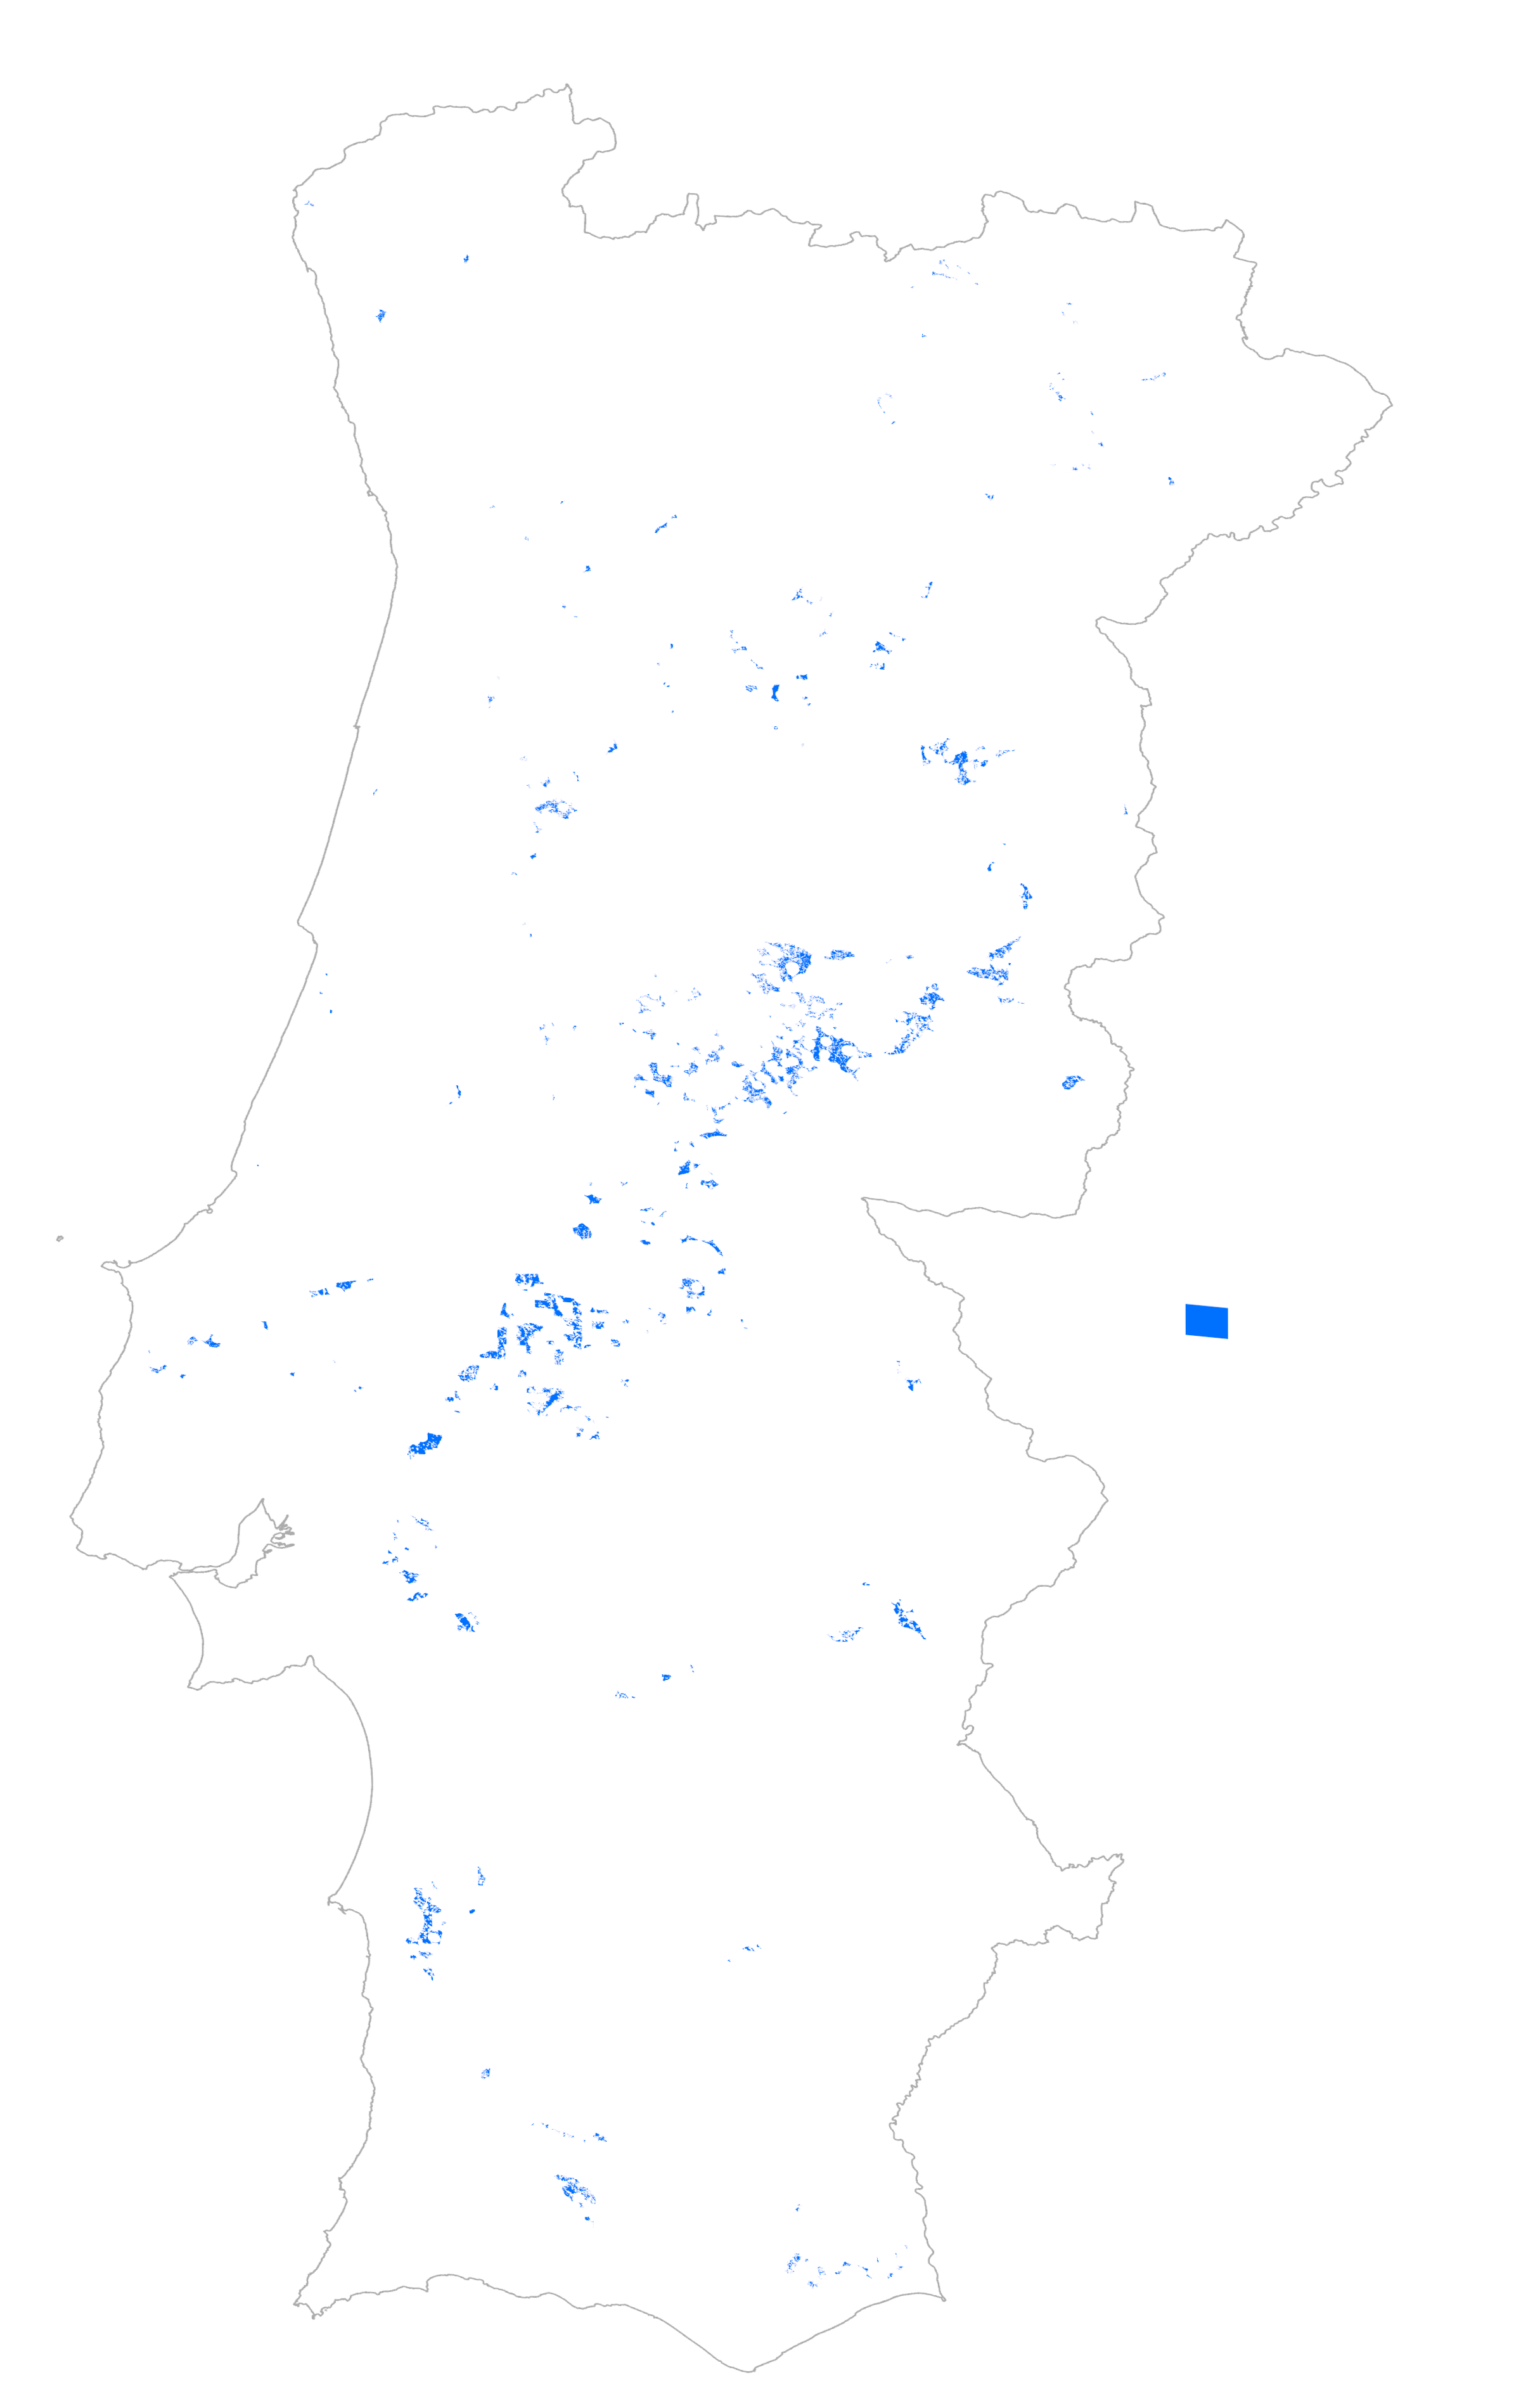
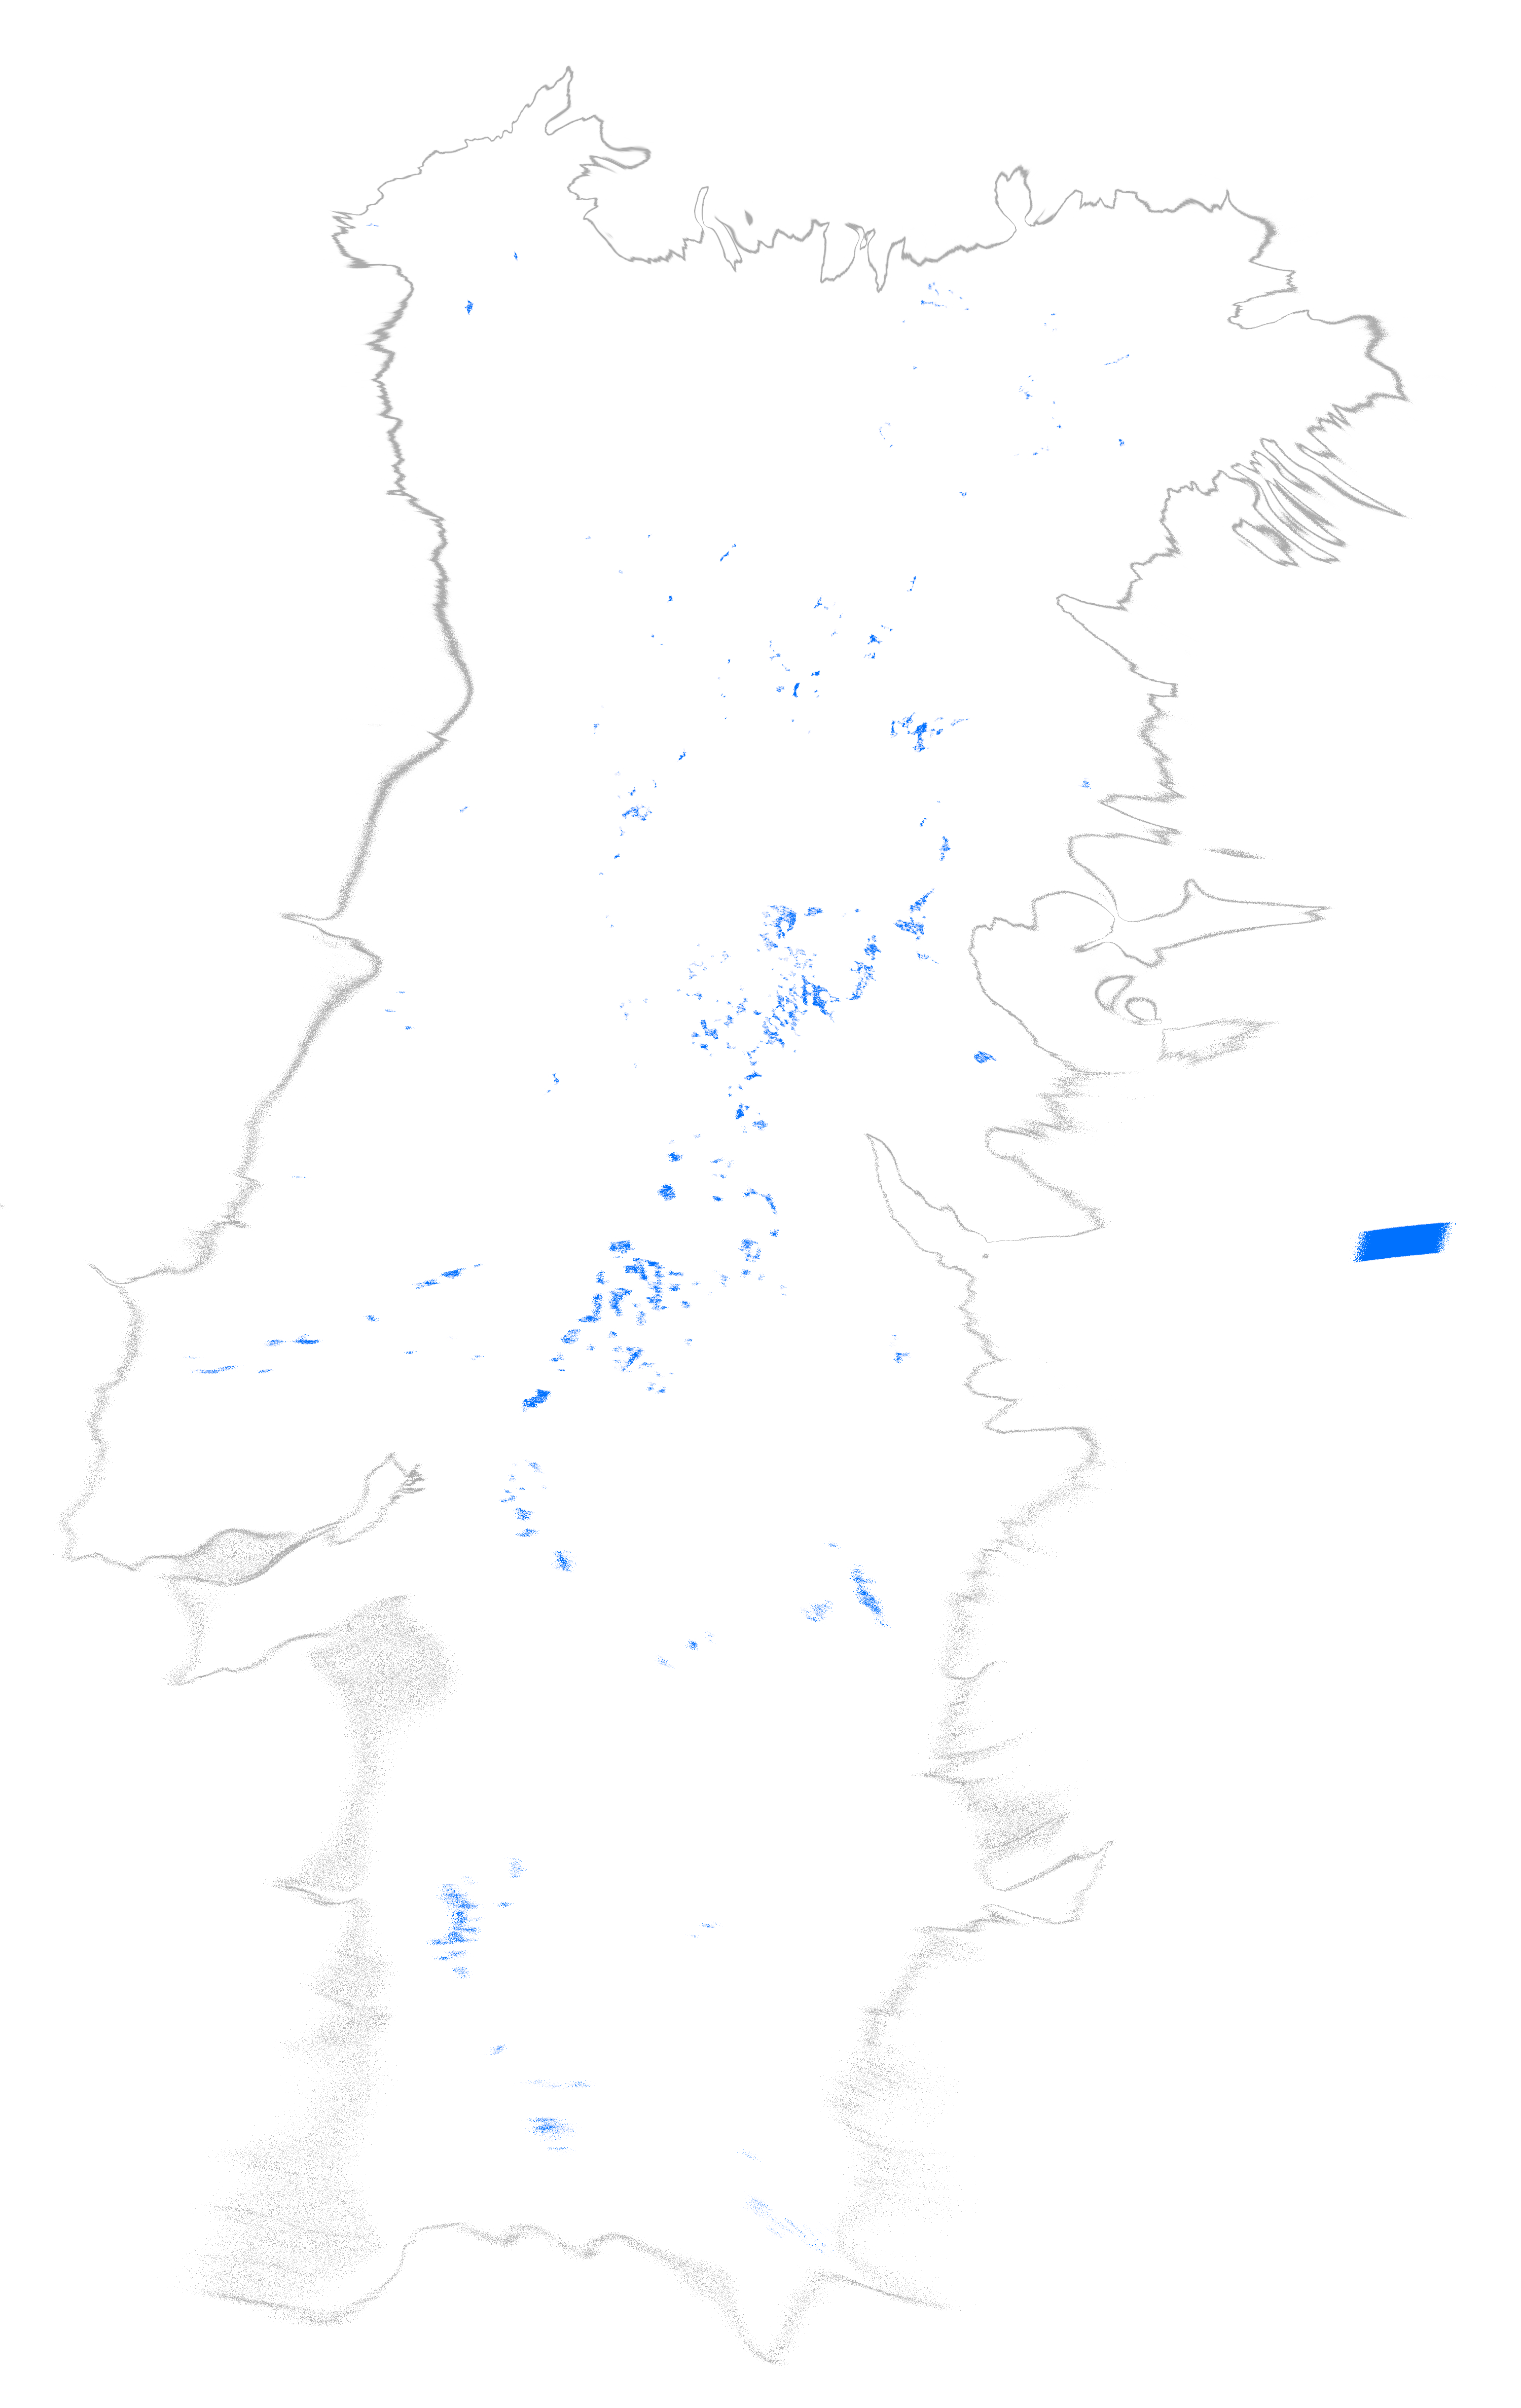
Add files via upload

diff --git a/zaer.html b/zaer.html
@@ -185,7 +185,7 @@
     </div>
 
     <div class="warn-box">
-      <b>Nota de fiabilidade:</b> este mapa é uma sobreposição georreferenciada das imagens oficiais publicadas em <a href="https://renovaveisparticipa.pt" target="_blank" rel="noopener">renovaveisparticipa.pt</a> (escala original 1:2 000 000). As imagens foram recalibradas e reprojetadas offline contra o contorno real de Portugal Continental (erro residual médio ~5 km, máximo ~14 km em pontos isolados da fronteira). Não substitui os ficheiros SIG vetoriais oficiais, que à data não estão disponíveis publicamente para download, e não deve ser usado para fins cadastrais ou de licenciamento.
+      <b>Nota de fiabilidade:</b> este mapa é uma sobreposição georreferenciada das imagens oficiais publicadas em <a href="https://renovaveisparticipa.pt" target="_blank" rel="noopener">renovaveisparticipa.pt</a> (escala original 1:2 000 000). As imagens foram recalibradas e reprojetadas offline (thin-plate-spline, ~830 pontos de controlo ao longo de todo o contorno, fonte Natural Earth 10m) contra o contorno real de Portugal Continental — erro residual mediano ~230 m, médio ~1 km; isoladamente até ~30 km numa pequena península costeira (Peniche) sem zonas ZAER. Não substitui os ficheiros SIG vetoriais oficiais, que à data não estão disponíveis publicamente para download, e não deve ser usado para fins cadastrais ou de licenciamento.
     </div>
 
     <div class="src-note">